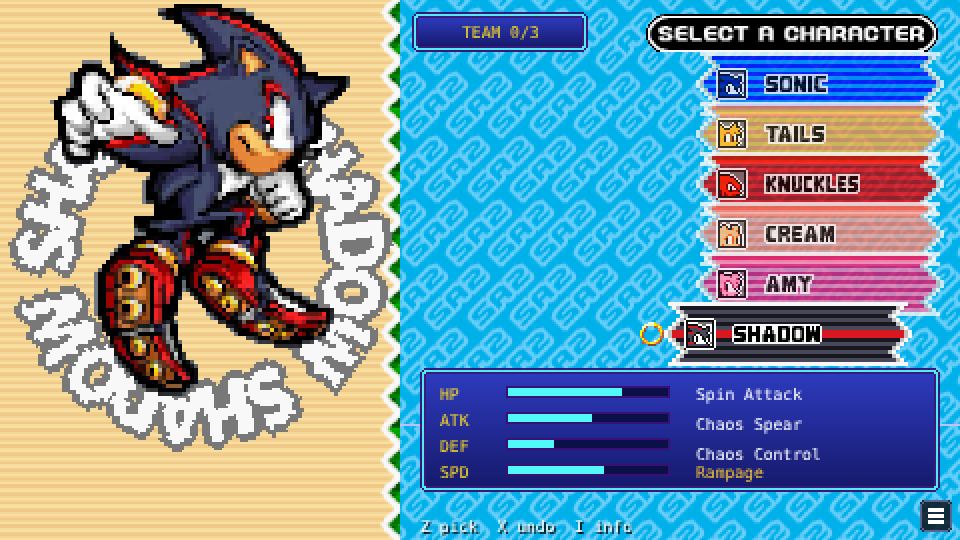
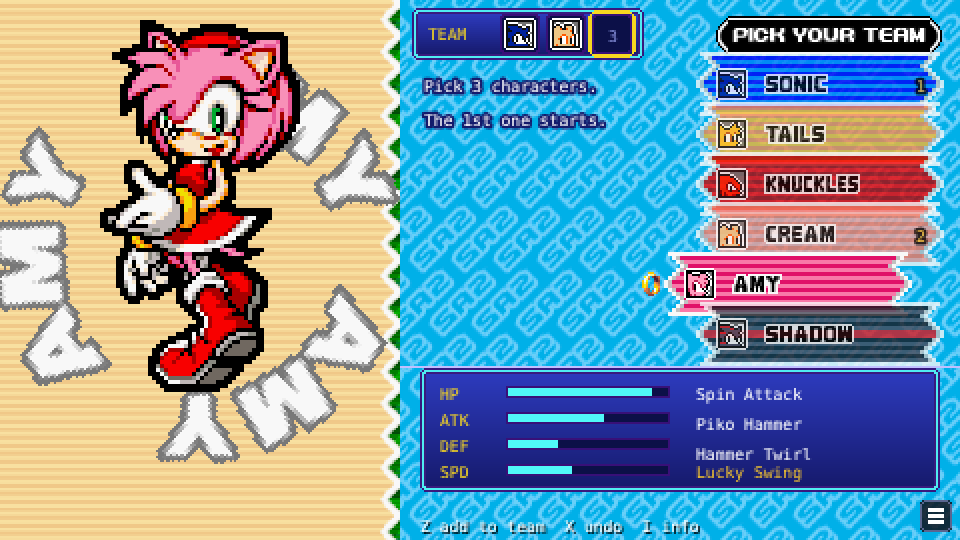
Character select: "PICK YOUR TEAM" pill and a 3-slot team tray
- New pill in the Sonic Advance 2 style, built from the same font
  (tools/build_team_pill.py), replaces "SELECT A CHARACTER"
- Team tray with one slot per pick; the next empty slot blinks and
  picked heads fly into it
- "Pick 3 characters. The 1st one starts." hint, "Z add to team" footer
- Updated README screenshot

Claude-Session: https://claude.ai/code/session_017uHxn1dCfFcE4Pae6cHTSG

diff --git a/src/scenes/CharSelectScene.ts b/src/scenes/CharSelectScene.ts
@@ -30,7 +30,10 @@ export class CharSelectScene extends Phaser.Scene {
   /** gekozen team, in volgorde (de eerste begint) */
   private picked: string[] = [];
   private badges: Phaser.GameObjects.Text[] = [];
-  private teamText!: Phaser.GameObjects.Text;
+  /** team-balkje linksboven: een vakje per plek, met het hoofdje van wie erin zit */
+  private slots: Array<{ x: number; y: number; num: Phaser.GameObjects.Text; head: Phaser.GameObjects.Image }> = [];
+  /** knipperende rand om het volgende lege vakje */
+  private slotGlow!: Phaser.GameObjects.Graphics;
   /** C: overzicht van alles wat het character kan (passive, moves, ultimate) */
   private detail?: Phaser.GameObjects.Container;
 
@@ -44,6 +47,7 @@ export class CharSelectScene extends Phaser.Scene {
     this.rows = [];
     this.picked = [];
     this.badges = [];
+    this.slots = [];
     this.cameras.main.fadeIn(300, 255, 255, 255);
     // twee character select-tracks, elke keer willekeurig één (loopt door als hij al speelt)
     audio.playMusic(Math.random() < 0.5 ? 'charselect' : 'charselect2');
@@ -63,8 +67,8 @@ export class CharSelectScene extends Phaser.Scene {
     this.art = this.add.image(ART.x, ART.y, 'cs_art_sonic').setScale(2).setOrigin(0.5, 0.75);
     this.tweens.add({ targets: this.art, y: ART.y - 3, duration: 900, yoyo: true, repeat: -1, ease: 'Sine.easeInOut' });
 
-    // titel
-    this.add.image(W - 84, 16, 'cs_select_pill');
+    // titel: "PICK YOUR TEAM" in dezelfde pil-stijl als Advance 2's "SELECT A CHARACTER"
+    this.add.image(W - 8, 16, 'cs_team_pill').setOrigin(1, 0.5);
 
     // rijen: banner + icoon + naam
     ROSTER.forEach((id, i) => {
@@ -90,11 +94,9 @@ export class CharSelectScene extends Phaser.Scene {
     // info-paneel
     this.info = this.add.container(PANEL_W + 10, 184);
 
-    this.add.text(PANEL_W + 10, H - 12, 'Z pick  X undo  I info', { fontFamily: FONT, fontSize: '8px', color: '#ffffff' })
+    this.add.text(PANEL_W + 10, H - 12, 'Z add to team  X undo  I info', { fontFamily: FONT, fontSize: '8px', color: '#ffffff' })
       .setShadow(1, 1, '#000', 0);
-    // team-teller in een Chao Garden-pilletje
-    sonicPanel(this.add.graphics(), PANEL_W + 6, 6, 88, 20, 'blue', 0.95);
-    this.teamText = this.add.text(PANEL_W + 50, 16, '', { fontFamily: FONT, fontSize: '8px', color: HUD.label }).setOrigin(0.5);
+    this.buildTeamTray();
     addMenuButton(this, W - 12, H - 12, () => this.openSettings());
 
     this.input.keyboard!.on('keydown', (e: KeyboardEvent) => {
@@ -170,9 +172,62 @@ export class CharSelectScene extends Phaser.Scene {
   /** Hoeveel je er moet kiezen: 3, of minder als je nog niet zoveel characters hebt. */
   private get teamSize() { return Math.min(MAX_PARTY, ROSTER.filter(id => this.unlocked(id)).length); }
 
+  /**
+   * Team-balkje: "TEAM" en een leeg vakje per plek (meestal 3), zodat je meteen ziet hoeveel je er kiest.
+   * Het volgende lege vakje knippert; gekozen characters vliegen erin.
+   */
+  private buildTeamTray() {
+    const n = this.teamSize;
+    const SLOT = 20, GAP = 3, LABEL = 38;
+    const w = 6 + LABEL + n * SLOT + (n - 1) * GAP + 6;
+    const x0 = PANEL_W + 6, y0 = 4, h = 26;
+    sonicPanel(this.add.graphics(), x0, y0, w, h, 'blue', 0.95);
+    this.add.text(x0 + 8, y0 + h / 2, 'TEAM', { fontFamily: FONT, fontSize: '8px', color: HUD.label }).setOrigin(0, 0.5);
+    const g = this.add.graphics();
+    for (let i = 0; i < n; i++) {
+      const x = x0 + 6 + LABEL + i * (SLOT + GAP), y = y0 + 3;
+      g.fillStyle(HUD.outline).fillRoundedRect(x, y, SLOT, SLOT, 3);
+      g.fillStyle(HUD.pipEmpty).fillRoundedRect(x + 1, y + 1, SLOT - 2, SLOT - 2, 2);
+      const num = this.add.text(x + SLOT / 2, y + SLOT / 2 + 1, `${i + 1}`, { fontFamily: FONT, fontSize: '8px', color: HUD.muted }).setOrigin(0.5);
+      const head = this.add.image(x + SLOT / 2, y + SLOT / 2, 'ui', 'head_sonic').setVisible(false);
+      this.slots.push({ x: x + SLOT / 2, y: y + SLOT / 2, num, head });
+    }
+    // uitleg eronder
+    const what = n === 1 ? 'Pick your character.' : `Pick ${n} characters.\nThe 1st one starts.`;
+    this.add.text(x0 + 4, y0 + h + 6, what, { fontFamily: FONT, fontSize: '8px', color: '#ffffff', lineSpacing: 4, stroke: '#141a6c', strokeThickness: 3 });
+    this.slotGlow = this.add.graphics();
+    this.tweens.add({ targets: this.slotGlow, alpha: 0.25, duration: 420, yoyo: true, repeat: -1, ease: 'Sine.easeInOut' });
+  }
+
   private refreshTeam() {
     this.badges.forEach((b, i) => { const n = this.picked.indexOf(ROSTER[i]); b.setText(n >= 0 ? `${n + 1}` : ''); });
-    this.teamText.setText(`TEAM ${this.picked.length}/${this.teamSize}`);
+    this.slots.forEach((sl, i) => {
+      const id = this.picked[i];
+      sl.head.setVisible(!!id);
+      if (id) sl.head.setFrame(`head_${id}`);
+      sl.num.setVisible(!id);
+    });
+    this.slotGlow.clear();
+    const next = this.slots[this.picked.length];
+    if (next) this.slotGlow.lineStyle(2, HUD.gold).strokeRoundedRect(next.x - 11, next.y - 11, 22, 22, 4);
+  }
+
+  /** Het hoofdje vliegt van de rij naar zijn vakje. */
+  private flyToSlot(id: string, slot: number) {
+    const sl = this.slots[slot];
+    const row = this.rows[ROSTER.indexOf(id)];
+    if (!sl || !row) return;
+    sl.head.setVisible(false);
+    const fly = this.add.image(row.x + 18, row.y, 'ui', `head_${id}`).setDepth(5).setScale(1.5);
+    this.tweens.add({
+      targets: fly, x: sl.x, y: sl.y, scale: 1, duration: 260, ease: 'Cubic.easeInOut',
+      onComplete: () => {
+        fly.destroy();
+        if (this.picked[slot] !== id) return;
+        sl.head.setVisible(true).setScale(1.5);
+        this.tweens.add({ targets: sl.head, scale: 1, duration: 160, ease: 'Back.easeOut' });
+      },
+    });
   }
 
   /** Z: character in je team zetten (of eruit halen). Is het team vol, dan begint de run. */
@@ -187,6 +242,7 @@ export class CharSelectScene extends Phaser.Scene {
     if (at >= 0) { this.picked.splice(at, 1); audio.sfx('back'); this.refreshTeam(); return; }
     this.picked.push(id);
     this.refreshTeam();
+    this.flyToSlot(id, this.picked.length - 1);
     if (this.picked.length < this.teamSize) {
       audio.sfx('confirm');
       const lines: Record<string, string> = { sonic: 'sonicalright', tails: 'tailsalright', knuckles: 'knucklesalright', cream: 'creamalright', amy: 'amywohoo', shadow: 'shadowhuh' };

diff --git a/tools/build_team_pill.py b/tools/build_team_pill.py
@@ -1,0 +1,76 @@
+"""Bouwt de "PICK YOUR TEAM"-pil voor character select, in dezelfde stijl als de
+"SELECT A CHARACTER"-pil uit Sonic Advance 2.
+
+De letters komen uit de namen op dezelfde sheet ("SONIC THE HEDGEHOG", ...): dat is hetzelfde
+font, maar zwart op licht. Omgekeerd (255 - grijs) zijn het precies de witte letters van de pil.
+
+Gebruik: python3 build_team_pill.py <7106.png (Advance 2 character select)> <out_dir> ["TEKST"]
+"""
+import os, sys
+import numpy as np
+from PIL import Image
+
+sheet = np.array(Image.open(sys.argv[1]).convert('RGB')).astype(int)
+out = sys.argv[2]
+text = sys.argv[3] if len(sys.argv) > 3 else 'PICK YOUR TEAM'
+BG = (192, 192, 255)
+
+# regels met namen: (y0, y1, tekst); letters worden op lege kolommen gesplitst
+NAMES = ['SONIC THE HEDGEHOG', 'MILES "TAILS" PROWER', 'KNUCKLES THE ECHIDNA', 'CREAM THE RABBIT', 'AMY ROSE']
+area = sheet[0:72, 110:290]
+core_rows = np.any(np.all(area < 100, axis=2), axis=1)
+bands, y = [], 0
+while y < len(core_rows):
+    if not core_rows[y]: y += 1; continue
+    s = y
+    while y < len(core_rows) and core_rows[y]: y += 1
+    bands.append((s - 1, y + 1))
+assert len(bands) == len(NAMES), bands
+glyphs = {}
+for (y0, y1), line in zip(bands, NAMES):
+    strip = sheet[y0:y1, 110:290]
+    # de omlijning van letters raakt elkaar; splits op de donkere kern (en neem 1 pixel omlijning mee)
+    empty = ~np.any(np.all(strip < 100, axis=2), axis=0)
+    runs, x = [], 0
+    while x < len(empty):
+        if empty[x]: x += 1; continue
+        s = x
+        while x < len(empty) and not empty[x]: x += 1
+        runs.append((s, x))
+    letters = [c for c in line if c != ' ']
+    if len(runs) != len(letters):
+        # twee letters die elkaar raken ("TH" in KNUCKLES THE ECHIDNA): alleen de letters ervoor gebruiken
+        merged = next(i for i, (s, e) in enumerate(runs) if e - s > 9)
+        runs, letters = runs[:merged], letters[:merged]
+    for (s, e), c in zip(runs, letters):
+        glyphs.setdefault(c, strip[:, max(0, s - 1):e + 1])
+
+missing = [c for c in text if c != ' ' and c not in glyphs]
+assert not missing, f'geen letter voor {missing}'
+
+# pil: kapjes van het origineel, zwart midden ertussen
+pill = sheet[30:52, 290:440]
+cap = 7            # rand + rondje links (daarna begint de oude tekst)
+left = pill[:, :cap]
+mid = pill[:, 29:30]  # een kolom met alleen zwart tussen de randen
+GAP, SPACE = -1, 5  # de omlijning van buurletters overlapt, net als in het origineel
+widths = [SPACE if c == ' ' else glyphs[c].shape[1] for c in text]
+text_w = sum(widths) + GAP * (len(text) - 1)
+inner = text_w + 4
+img = np.concatenate([left] + [mid] * inner + [left[:, ::-1]], axis=1).copy()
+# tekst: omgekeerde letters, alleen waar de letter lichter is dan de zwarte pil
+x = cap + 2
+ty = 8
+for c, w in zip(text, widths):
+    if c != ' ':
+        g = glyphs[c]
+        inv = 255 - g
+        mask = ~np.all(g == BG, axis=2)
+        region = img[ty:ty + g.shape[0], x:x + w]
+        region[mask] = np.maximum(region[mask], inv[mask])
+    x += w + GAP
+# achtergrond van de sheet transparant
+rgba = np.dstack([img, np.where(np.all(img == BG, axis=2), 0, 255)]).astype(np.uint8)
+os.makedirs(out, exist_ok=True)
+Image.fromarray(rgba).save(os.path.join(out, 'cs_team_pill.png'))
+print('cs_team_pill', rgba.shape[1], 'x', rgba.shape[0])
